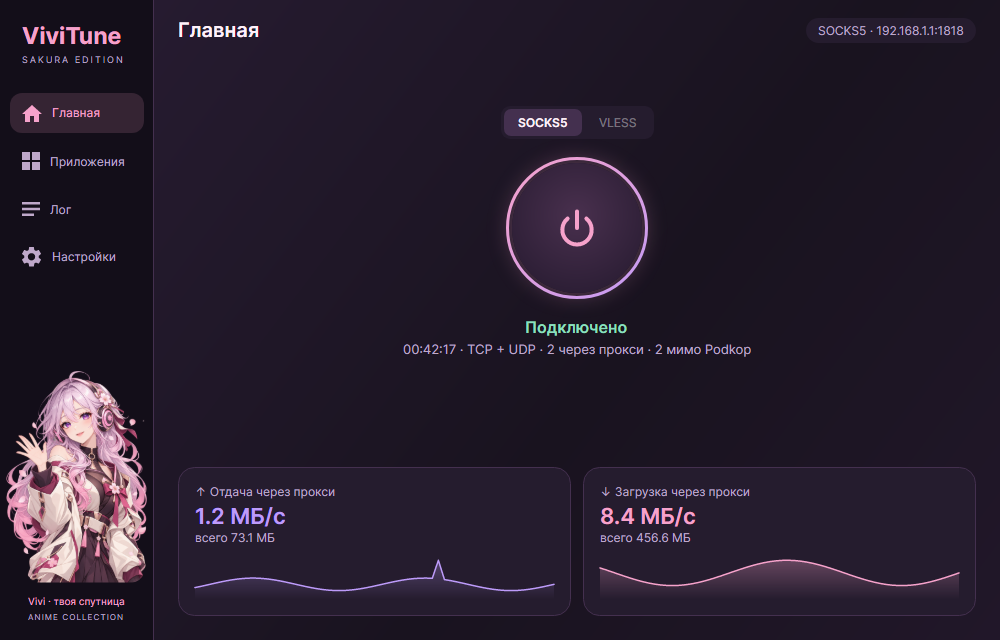
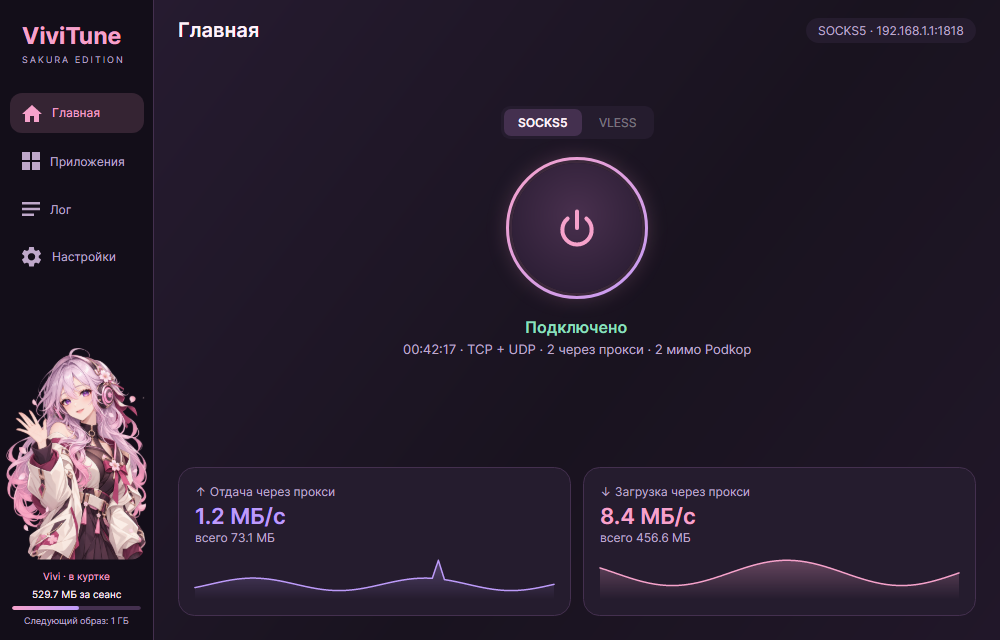
Add traffic-based Vivi outfits with session progress and threshold tests

Changed region(s): [[0.0, 0.5312, 0.155, 1.0]]

diff --git a/src/ViviTune.Tests/Program.cs b/src/ViviTune.Tests/Program.cs
@@ -25,6 +25,7 @@ static class Program
         SessionTests();
         CatalogTests();
         ViewStateTests();
+        MascotProgressTests();
         AppListTests();
         VlessLinkTests();
         SettingsV4Tests();
@@ -34,6 +35,49 @@ static class Program
         VlessProbeTests();
         ViewStateVlessTests();
         return failures == 0 ? 0 : 1;
+    }
+
+    static void MascotProgressTests()
+    {
+        var s = new ViewState { State = ConnState.Checking };
+        var changed = new HashSet<string>();
+        s.PropertyChanged += (_, e) => { if (e.PropertyName != null) changed.Add(e.PropertyName); };
+        s.State = ConnState.Connected;
+        Check(s.MascotClassic && !s.MascotCasual && !s.MascotSummer && s.MascotProgress == 0,
+            "Mascot: новый сеанс, первый образ и нулевой прогресс");
+        s.PushSpeed(new Speed(5000000, 9000000));
+        Check(s.MascotTrafficBytes == 0, "Mascot: скорость без байтов не открывает образ");
+        s.PushSpeed(new Speed(0, 0, ViewState.MascotCasualAt / 2, ViewState.MascotCasualAt / 2 - 1));
+        Check(s.MascotTrafficBytes == ViewState.MascotCasualAt - 1 && s.MascotClassic
+            && s.MascotProgress > 99 && s.MascotProgress < 100, "Mascot: сумма upload/download, байт до первого порога");
+        changed.Clear();
+        s.PushSpeed(new Speed(0, 0, 1, 0));
+        Check(!s.MascotClassic && s.MascotCasual && !s.MascotSummer && s.MascotProgress == 0
+            && s.MascotNextText.Contains("10 ГБ"), "Mascot: ровно 1 ГБ, второй образ и новый интервал прогресса");
+        Check(new[] { nameof(s.MascotStage), nameof(s.MascotClassic), nameof(s.MascotCasual), nameof(s.MascotSummer),
+            nameof(s.MascotStageText), nameof(s.MascotTrafficText), nameof(s.MascotProgress), nameof(s.MascotNextText) }
+            .All(changed.Contains), "Mascot: интерфейс получает уведомления о смене образа и прогресса");
+        s.State = ConnState.Restarting;
+        s.State = ConnState.Connected;
+        s.Mode = ProxyMode.Vless;
+        Check(s.MascotCasual && s.MascotTrafficBytes == ViewState.MascotCasualAt,
+            "Mascot: внутренний перезапуск и режим не сбрасывают итог");
+        s.PushSpeed(new Speed(0, 0, 0, ViewState.MascotSummerAt - ViewState.MascotCasualAt - 1));
+        Check(s.MascotCasual && s.MascotProgress < 100, "Mascot: байт до 10 ГБ, второй образ");
+        s.PushSpeed(new Speed(0, 0, 0, 1));
+        Check(!s.MascotClassic && !s.MascotCasual && s.MascotSummer && s.MascotProgress == 100,
+            "Mascot: ровно 10 ГБ, третий образ");
+        s.PushSpeed(new Speed(0, 0, ViewState.MascotSummerAt, ViewState.MascotSummerAt));
+        Check(s.MascotSummer && s.MascotProgress == 100 && s.MascotTrafficBytes == 3 * ViewState.MascotSummerAt,
+            "Mascot: после финала счётчик растёт, прогресс остаётся 100%");
+        s.State = ConnState.Disconnected;
+        Check(s.MascotSummer, "Mascot: итог и образ видны после отключения");
+        changed.Clear();
+        s.State = ConnState.Checking;
+        Check(s.MascotTrafficBytes == 0 && s.MascotClassic && s.MascotProgress == 0 && changed.Contains(nameof(s.MascotClassic)),
+            "Mascot: новое подключение сбрасывает итог и обновляет образ");
+        s.PushSpeed(new Speed(0, 0, ViewState.MascotSummerAt, 0));
+        Check(s.MascotSummer, "Mascot: один большой интервал сразу открывает третий образ");
     }
 
     static void ListStoreTests()

diff --git a/src/ViviTune/Ui/ViewState.cs b/src/ViviTune/Ui/ViewState.cs
@@ -12,6 +12,8 @@ namespace ViviTune.Ui;
 public sealed class ViewState : INotifyPropertyChanged
 {
     public const int HistoryMax = 60, LogMax = 500;
+    public const long MascotCasualAt = 1024L * 1024 * 1024;
+    public const long MascotSummerAt = 10 * MascotCasualAt;
 
     ConnState state;
     string? errorText, warningText, settingsError;
@@ -57,6 +59,7 @@ public sealed class ViewState : INotifyPropertyChanged
             {
                 upTotal = downTotal = 0;
                 Notify(nameof(UpTotalText), nameof(DownTotalText));
+                NotifyMascot();
             }
             Notify(nameof(StatusText), nameof(SettingsEditable), nameof(IsBusy), nameof(IsConnected));
         }
@@ -95,6 +98,31 @@ public sealed class ViewState : INotifyPropertyChanged
     public string DownText => Format.Speed(downBps);
     public string UpTotalText => "всего " + Format.Bytes(upTotal);
     public string DownTotalText => "всего " + Format.Bytes(downTotal);
+    // Тот же измеренный трафик через proxy, что и на главной: загрузка + отдача за сеанс.
+    public long MascotTrafficBytes => upTotal + downTotal;
+    public int MascotStage => MascotTrafficBytes >= MascotSummerAt ? 2 : MascotTrafficBytes >= MascotCasualAt ? 1 : 0;
+    public bool MascotClassic => MascotStage == 0;
+    public bool MascotCasual => MascotStage == 1;
+    public bool MascotSummer => MascotStage == 2;
+    public string MascotStageText => MascotStage switch
+    {
+        0 => "Vivi · в куртке",
+        1 => "Vivi · без куртки",
+        _ => "Vivi · летний образ"
+    };
+    public string MascotTrafficText => Format.Bytes(MascotTrafficBytes) + " за сеанс";
+    public string MascotNextText => MascotStage switch
+    {
+        0 => "Следующий образ: 1 ГБ",
+        1 => "Следующий образ: 10 ГБ",
+        _ => "Все 3 образа открыты"
+    };
+    public double MascotProgress => MascotStage switch
+    {
+        0 => 100.0 * MascotTrafficBytes / MascotCasualAt,
+        1 => 100.0 * (MascotTrafficBytes - MascotCasualAt) / (MascotSummerAt - MascotCasualAt),
+        _ => 100
+    };
     public ObservableCollection<double> UpHistory { get; } = new();
     public ObservableCollection<double> DownHistory { get; } = new();
 
@@ -202,7 +230,12 @@ public sealed class ViewState : INotifyPropertyChanged
         upTotal += s.UpBytes;
         downTotal += s.DownBytes;
         Notify(nameof(UpTotalText), nameof(DownTotalText));
+        NotifyMascot();
     }
+
+    void NotifyMascot() => Notify(nameof(MascotTrafficBytes), nameof(MascotStage),
+        nameof(MascotClassic), nameof(MascotCasual), nameof(MascotSummer),
+        nameof(MascotStageText), nameof(MascotTrafficText), nameof(MascotNextText), nameof(MascotProgress));
 
     public void AddLog(string line) => Push(LogLines, line, LogMax);
 

diff --git a/src/ViviTune.Shots/Program.cs b/src/ViviTune.Shots/Program.cs
@@ -104,6 +104,16 @@ s.State = ConnState.Disconnected;
 s.Apps.Clear();
 Shot(NavPage.Apps, "apps-empty.png");
 
+// Образы на настоящих порогах, без передачи сетевого трафика.
+s.State = ConnState.Checking;
+s.State = ConnState.Connected;
+s.DetailText = "";
+Shot(NavPage.Home, "mascot-classic.png");
+s.PushSpeed(new Speed(0, 0, ViewState.MascotCasualAt / 2, ViewState.MascotCasualAt / 2));
+Shot(NavPage.Home, "mascot-casual.png");
+s.PushSpeed(new Speed(0, 0, 0, ViewState.MascotSummerAt - ViewState.MascotCasualAt));
+Shot(NavPage.Home, "mascot-summer.png");
+
 window.Close();
 return 0;
 

diff --git a/docs/artwork.md b/docs/artwork.md
@@ -9,3 +9,18 @@ Generation prompt:
 The screenshots in README are rendered by `ViviTune.Shots` from the actual Avalonia interface with demo connection data; they are not generated UI mockups.
 
 `src/ViviTune/Assets/icon.svg` is the editable vector source for the sakura/V application and tray icon. `icon.ico` contains PNG frames at 16, 24, 32, 48, 64, 128 and 256 pixels.
+
+## Traffic-based outfits
+
+The adult character Vivi (25) has two additional original variants, edited from `sakura-mascot.png` with built-in ImageGen on 2026-10-21. Both are bundled Avalonia resources with transparent backgrounds.
+
+- `src/ViviTune/Assets/sakura-casual.png`: without the outer jacket, displayed from 1 GiB of measured session proxy traffic.
+- `src/ViviTune/Assets/sakura-summer.png`: opaque one-piece swimsuit, displayed from 10 GiB.
+
+Casual edit prompt:
+
+> Edit the provided original fictional anime mascot into an alternate everyday outfit. The character is Vivi, an adult woman age 25. Preserve her exact face, adult proportions, lavender-pink hair, violet eyes, headphones, sakura hair clip, gentle expression, waving hand, pose, camera angle, framing and illustration style. Remove only her large cream outer jacket, revealing a tasteful opaque plum sleeveless high-neck top and the same skirt beneath, with the pink ribbon and small blossom decoration. Modest casual summer fashion; neutral non-suggestive presentation, no lingerie, no nudity. Keep the entire same silhouette placement and canvas proportions for swapping in a software sidebar. Transparent alpha background, no text or new props.
+
+Summer edit prompt:
+
+> Create an alternate summer swimsuit outfit for this original fictional anime mascot, Vivi, an adult woman aged 25. Preserve exact face, adult proportions, violet eyes, lavender-pink hairstyle, sakura hair clip, headphones, small friendly smile, waving hand, same pose, framing, canvas proportions and polished anime art style from the reference. Replace the jacket, top and skirt with a tasteful opaque one-piece athletic swimsuit, plum with pale pink side panels, a high rounded neckline, regular full-coverage bottom and tiny sakura flower emblem. Ordinary swimwear fashion illustration, relaxed non-suggestive posture, no erotic emphasis, no nudity, no transparent fabric, no lingerie. Keep character scale and head position the same for swapping artwork in a desktop app. Transparent alpha background, no text, no extra props.

diff --git a/README.md b/README.md
@@ -9,6 +9,20 @@
 ![Главная — аниме-тема Sakura](docs/home.png)
 ![Приложения — аниме-тема Sakura](docs/apps.png)
 
+## Образы Vivi и трафик
+
+В боковой панели показана сумма загрузки и отдачи **через прокси/VPN за текущий сеанс**. Чем больше измеренного трафика, тем легче наряд взрослого маскота Vivi:
+
+| Трафик | Образ |
+| --- | --- |
+| До 1 ГБ | Исходный наряд с курткой |
+| От 1 до 10 ГБ | Без куртки |
+| От 10 ГБ | Закрытый купальник |
+
+Под маскотом видны объём, шкала и следующий порог. Здесь 1 ГБ = 1024³ байт, как в остальных счётчиках программы. После последнего этапа шкала остаётся заполненной, а объём продолжает расти. При отключении итог сохраняется на экране; новое подключение сбрасывает его. Внутренние перезапуски sing-box сохраняют прогресс. Счётчик использует существующие измерения трафика, ничего не передаёт для аналитики и не создаёт дополнительную сетевую нагрузку.
+
+![Vivi после 10 ГБ трафика за сеанс](docs/mascot-summer.png)
+
 ## Как это работает
 
 ViviTune запускает [sing-box](https://github.com/SagerNet/sing-box) в режиме TUN. Соединения выбранных программ (по имени `.exe`) и их DNS-запросы уходят в SOCKS5-прокси (у программ «Через прокси» DNS идёт через `1.1.1.1` по прокси, а программы «Мимо Podkop» разрешают имена как обычно, через роутер), всё остальное идёт напрямую. При отключении или закрытии ViviTune sing-box останавливается и маршруты убираются.
